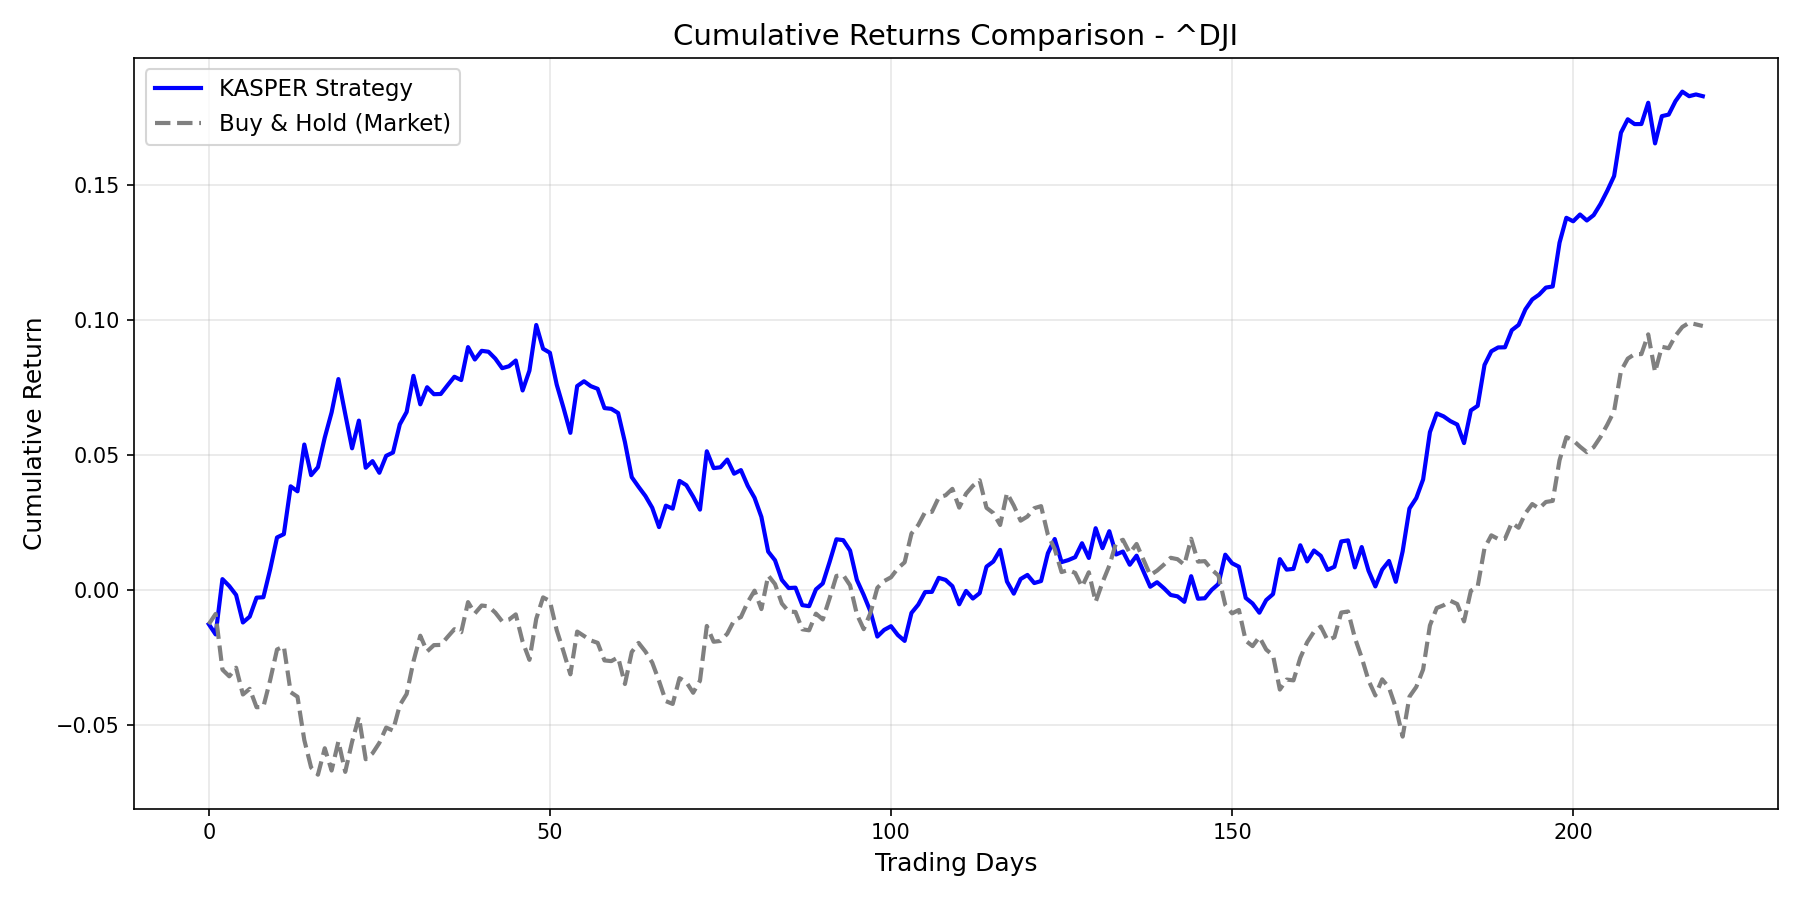
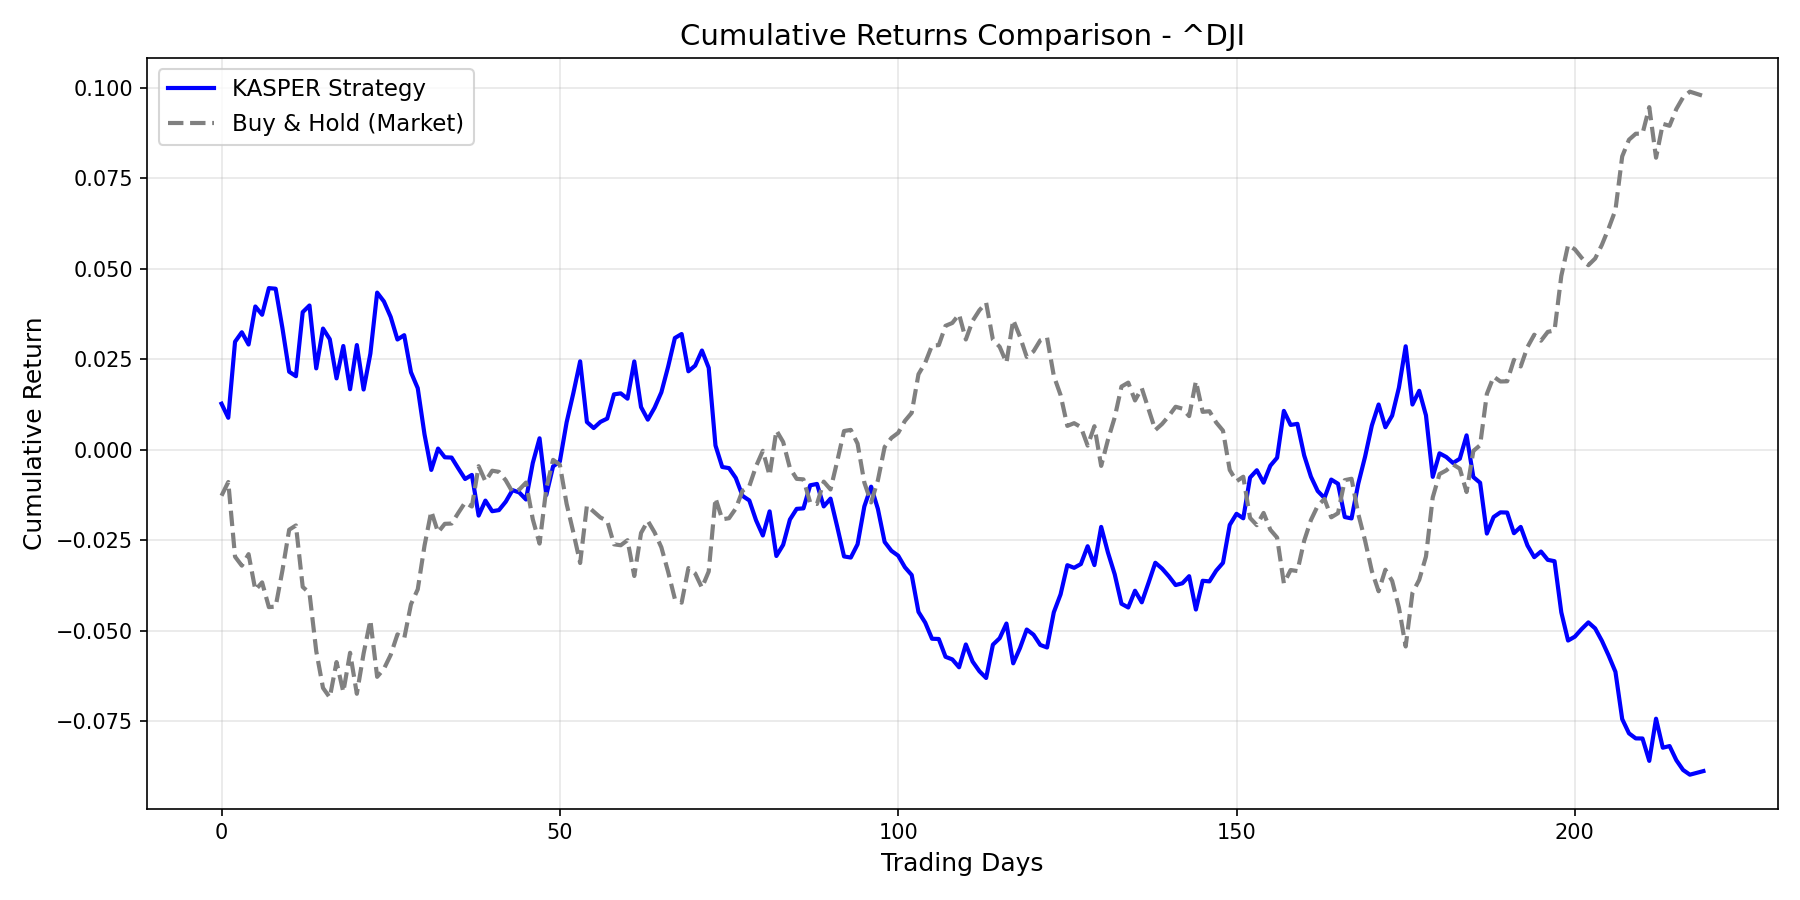
Refine KAN Layer Knots: implementation of vectorized B-spline, robust grid extension, and paper-compliant soft-thresholding

diff --git a/kan_layers.py b/kan_layers.py
@@ -138,110 +138,152 @@ class RegimeAdaptiveForecastingLayer(nn.Module):
         """
         with torch.no_grad():
             regime_assignments = torch.argmax(regime_probs, dim=1)
-            quantiles = torch.linspace(0, 1, self.n_basis + self.spline_order + 1, device=h.device)
+            n_knots = self.n_basis + self.spline_order + 1
+            quantiles = torch.linspace(0, 1, n_knots, device=h.device)
             
             for r in range(self.n_regimes):
                 mask = (regime_assignments == r)
-                if mask.any():
+                if mask.any() and mask.sum() > n_knots:
                     h_r = h[mask]
                     # Quantile normalization per feature for this regime
+                    # Add small epsilon to ensure strictly increasing knots if data is flat
                     new_knots_r = torch.quantile(h_r, quantiles, dim=0).T # (hidden_dim, n_knots)
+                    
+                    # Ensure strictly increasing
+                    diff = new_knots_r[:, 1:] - new_knots_r[:, :-1]
+                    if (diff <= 0).any():
+                        # Add a small trend to ensure separation
+                        epsilon = 1e-4 * torch.arange(n_knots, device=h.device).view(1, -1)
+                        new_knots_r = new_knots_r + epsilon
+                        
                     self.knots.data[r] = new_knots_r
                 else:
-                    # Fallback if no samples (keep existing or use global)
+                    # Fallback if no samples: keep existing or use global range
                     pass
 
-    def grid_extension(self, new_n_basis):
+    def grid_extension(self, new_n_basis, h_samples=None):
         """
-        G1 -> G2 extension as mentioned in Fig 1.
-        Increases the knot resolution while preserving (as much as possible) the learned shape.
+        G1 -> G2 extension as mentioned in KAN paper Fig 1.
+        Increases the knot resolution while preserving the learned function shape using LSQ.
         """
         old_n_basis = self.n_basis
         if new_n_basis <= old_n_basis:
             return
             
-        # 1. Update knots with higher resolution
-        # For simplicity, we interpolate current knots to the new resolution
-        n_knots_new = new_n_basis + self.spline_order + 1
-        new_knots = torch.zeros(self.n_regimes, self.hidden_dim, n_knots_new, device=self.knots.device)
+        print(f"  Extending grid from {old_n_basis} to {new_n_basis} basis functions...")
         
-        for r in range(self.n_regimes):
-            for h in range(self.hidden_dim):
-                # Basic linear interpolation for the new knot sequence
-                old_k = self.knots[r, h]
-                indices = torch.linspace(0, len(old_k)-1, n_knots_new, device=self.knots.device)
-                new_knots[r, h] = torch.lerp(old_k[indices.long()], old_k[torch.clamp(indices.long() + 1, max=len(old_k)-1)], indices % 1)
-        
-        self.knots.data = new_knots
-        
-        # 2. Update coeffs (zero-init or interpolate)
-        new_coeffs = torch.zeros(self.n_regimes, self.hidden_dim, new_n_basis, device=self.coeffs.device)
-        # Note: True grid extension involves least-squares fitting of coeffs to match old function.
-        # Here we'll zero-init the new basis components and keep old ones if they align,
-        # or just random. We'll use random * 0.1 for new capacity.
-        new_coeffs[:, :, :old_n_basis] = self.coeffs.data
-        self.coeffs = nn.Parameter(new_coeffs)
-        self.sparsity_mask = torch.ones_like(self.coeffs)
-        self.n_basis = new_n_basis
+        with torch.no_grad():
+            # 1. Update knots with higher resolution
+            n_knots_new = new_n_basis + self.spline_order + 1
+            new_knots = torch.zeros(self.n_regimes, self.hidden_dim, n_knots_new, device=self.knots.device)
+            
+            for r in range(self.n_regimes):
+                for h_idx in range(self.hidden_dim):
+                    old_k = self.knots[r, h_idx]
+                    # Generate new knots by interpolating old ones (uniform distribution over same range)
+                    new_knots[r, h_idx] = torch.linspace(old_k[0], old_k[-1], n_knots_new, device=self.knots.device)
+            
+            # If h_samples is provided, use LSQ to fit new coefficients
+            if h_samples is not None:
+                # phi_old: (r, n, h, b_old)
+                phi_old = self.b_spline_basis(h_samples.unsqueeze(-1), self.spline_order)
+                # target_values: (r, n, h) = sum_b coeff_old * phi_old
+                # coeffs: (r, h, b)
+                target = torch.einsum('rhb,rnhb->rnh', self.coeffs * self.sparsity_mask, phi_old)
+                
+                # Temporarily update knots to compute new phi
+                original_knots = self.knots.data.clone()
+                original_n_basis = self.n_basis
+                self.knots.data = new_knots
+                self.n_basis = new_n_basis
+                
+                # phi_new: (r, n, h, b_new)
+                phi_new = self.b_spline_basis(h_samples.unsqueeze(-1), self.spline_order)
+                
+                # Solve LSQ for each regime and hidden dimension
+                # phi_new_flat: (r*h, n, b_new), target_flat: (r*h, n)
+                phi_new_flat = phi_new.permute(0, 2, 1, 3).reshape(-1, h_samples.size(0), new_n_basis)
+                target_flat = target.permute(0, 2, 1).reshape(-1, h_samples.size(0))
+                
+                # Robust LSQ solution: (phi^T * phi)^-1 * phi^T * target
+                # We'll use torch.linalg.lstsq
+                new_coeffs_flat = torch.linalg.lstsq(phi_new_flat, target_flat.unsqueeze(-1)).solution
+                new_coeffs = new_coeffs_flat.view(self.n_regimes, self.hidden_dim, new_n_basis)
+                
+                self.coeffs = nn.Parameter(new_coeffs)
+            else:
+                # Naive extension: interpolate/pad coefficients
+                new_coeffs = torch.zeros(self.n_regimes, self.hidden_dim, new_n_basis, device=self.coeffs.device)
+                indices = torch.linspace(0, old_n_basis-1, new_n_basis, device=self.coeffs.device).long()
+                new_coeffs = self.coeffs.data[:, :, indices]
+                self.knots.data = new_knots
+                self.coeffs = nn.Parameter(new_coeffs)
+                self.n_basis = new_n_basis
+
+            self.sparsity_mask = torch.ones_like(self.coeffs)
 
     def update_sparsity_mask(self, threshold=0.01):
-        """Update mask based on Equation 22: w' = ReLU(|w| - theta)"""
+        """
+        Update coefficients and mask based on Equation 22: w' = sign(w) * ReLU(|w| - theta)
+        This implements soft-thresholding (proximal operator for L1).
+        """
         with torch.no_grad():
-            self.sparsity_mask.data = (torch.abs(self.coeffs) > threshold).float()
+            # Update the weights themselves as per Eq 22
+            abs_coeffs = torch.abs(self.coeffs)
+            new_coeffs = torch.sign(self.coeffs) * F.relu(abs_coeffs - threshold)
+            self.coeffs.data = new_coeffs
+            
+            # Update mask for visualization/pruning
+            self.sparsity_mask.data = (torch.abs(self.coeffs) > 0).float()
 
     def b_spline_basis(self, x, k):
         """
-        Iterative vectorized B-spline basis function calculation.
-        Modified to support regime-specific knots.
+        Fully vectorized B-spline basis function calculation.
         x: (batch, hidden_dim, 1)
         returns phi: (n_regimes, batch, hidden_dim, n_basis)
         """
+        # x is (batch, hidden_dim, 1)
         batch_size, hidden_dim, _ = x.shape
-        # x is (batch, hidden_dim) implicitly
-        x_val = x.squeeze(-1)
+        x_val = x # (batch, hidden_dim, 1)
         
-        # Output container for all regimes
-        all_regime_phi = []
+        # Knots: (n_regimes, hidden_dim, n_knots)
+        knots = self.knots # (R, H, K)
+        n_regimes = knots.size(0)
+        n_knots = knots.size(2)
         
-        for r in range(self.n_regimes):
-            # Knots for this regime: (hidden_dim, n_knots)
-            knots_r = self.knots[r]
-            n_knots = knots_r.size(1)
+        # Base case (order 0): phi_0 is 1 if knots[i] <= x < knots[i+1], else 0
+        # Broadcast x to (1, batch, hidden_dim, 1) and knots to (n_regimes, 1, hidden_dim, n_knots)
+        # Resulting phi: (n_regimes, batch, hidden_dim, n_knots - 1)
+        phi = ((x_val.unsqueeze(0) >= knots.unsqueeze(1)[:, :, :, :-1]) & 
+               (x_val.unsqueeze(0) < knots.unsqueeze(1)[:, :, :, 1:])).float()
+        
+        # Cox-de Boor recursion
+        for deg in range(1, k + 1):
+            n_basis_step = phi.size(-1)
             
-            # Base case (order 0): (batch, hidden_dim, n_knots - 1)
-            # x_val: (batch, hidden_dim), knots_r: (hidden_dim, n_knots)
-            # Broadcast comparison
-            p_0 = ((x_val.unsqueeze(-1) >= knots_r[:, :-1].unsqueeze(0)) & 
-                   (x_val.unsqueeze(-1) < knots_r[:, 1:].unsqueeze(0))).float()
+            # k_i: t_i for i=0..N-2
+            k_i = knots[:, :, :n_basis_step-1].unsqueeze(1)
+            # k_id: t_{i+deg} for i=0..N-2
+            k_id = knots[:, :, deg:n_basis_step+deg-1].unsqueeze(1)
+            # k_i1: t_{i+1} for i=0..N-2
+            k_i1 = knots[:, :, 1:n_basis_step].unsqueeze(1)
+            # k_id1: t_{i+deg+1} for i=0..N-2
+            k_id1 = knots[:, :, deg+1:n_basis_step+deg].unsqueeze(1)
             
-            # Current level phi
-            phi_current = p_0 
+            # phi_left: B_{i, d-1} for i=0..N-2
+            phi_left = phi[:, :, :, :-1]
+            # phi_right: B_{i+1, d-1} for i=0..N-2
+            phi_right = phi[:, :, :, 1:]
             
-            # Recursively build higher degrees
-            for deg in range(1, k + 1):
-                # deg reduce the number of basis functions by 1 in each step
-                # knots_r: (hidden_dim, n_knots)
-                # phi_current: (batch, hidden_dim, n_basis_current)
-                n_basis_current = phi_current.size(-1)
-                new_phi = torch.zeros(batch_size, hidden_dim, n_basis_current - 1, device=x.device)
-                
-                for i in range(n_basis_current - 1):
-                    # Cox-de Boor recursion
-                    left_num = x_val - knots_r[:, i].unsqueeze(0)
-                    left_denom = (knots_r[:, i + deg] - knots_r[:, i]).unsqueeze(0) + 1e-8
-                    left = (left_num / left_denom) * phi_current[:, :, i]
-                    
-                    right_num = knots_r[:, i + deg + 1].unsqueeze(0) - x_val
-                    right_denom = (knots_r[:, i + deg + 1] - knots_r[:, i + 1]).unsqueeze(0) + 1e-8
-                    right = (right_num / right_denom) * phi_current[:, :, i + 1]
-                    
-                    new_phi[:, :, i] = left + right
-                phi_current = new_phi
-                
-            all_regime_phi.append(phi_current)
+            denom1 = (k_id - k_i)
+            term1 = ((x_val.unsqueeze(0) - k_i) / (denom1 + 1e-8)) * phi_left
             
-        # Stack to (n_regimes, batch, hidden_dim, n_basis)
-        return torch.stack(all_regime_phi, dim=0)
+            denom2 = (k_id1 - k_i1)
+            term2 = ((k_id1 - x_val.unsqueeze(0)) / (denom2 + 1e-8)) * phi_right
+            
+            phi = term1 + term2
+            
+        return phi
 
     def forward(self, h, regime_probs):
         # h: (batch, hidden_dim)

diff --git a/trainer.py b/trainer.py
@@ -119,6 +119,21 @@ class ForecasterTrainer:
                     _, r_probs, embeddings = self.model(all_x)
                     self.model.forecasting.fit_knots(embeddings, r_probs)
                 self.model.train()
+            
+            # Grid extension (Coarse-to-fine refinement) after stable knots found (Epoch 20)
+            if epoch == 20:
+                print("  Performing grid extension (10 -> 20 basis functions)...")
+                self.model.eval()
+                with torch.no_grad():
+                    all_x = train_loader.dataset.tensors[0].to(self.device)
+                    _, _, embeddings = self.model(all_x)
+                    self.model.forecasting.grid_extension(20, h_samples=embeddings)
+                self.model.train()
+                # Update optimizer to include new parameters from grid extension
+                self.optimizer = optim.AdamW(self.model.parameters(), lr=self.optimizer.param_groups[0]['lr'], weight_decay=1e-5)
+                # Save as new best to ensure shape matches on subsequent loads
+                self.best_val_loss = val_loss
+                torch.save(self.model.state_dict(), 'best_kasper.pth')
                 
             self.scheduler.step(val_loss)
             
